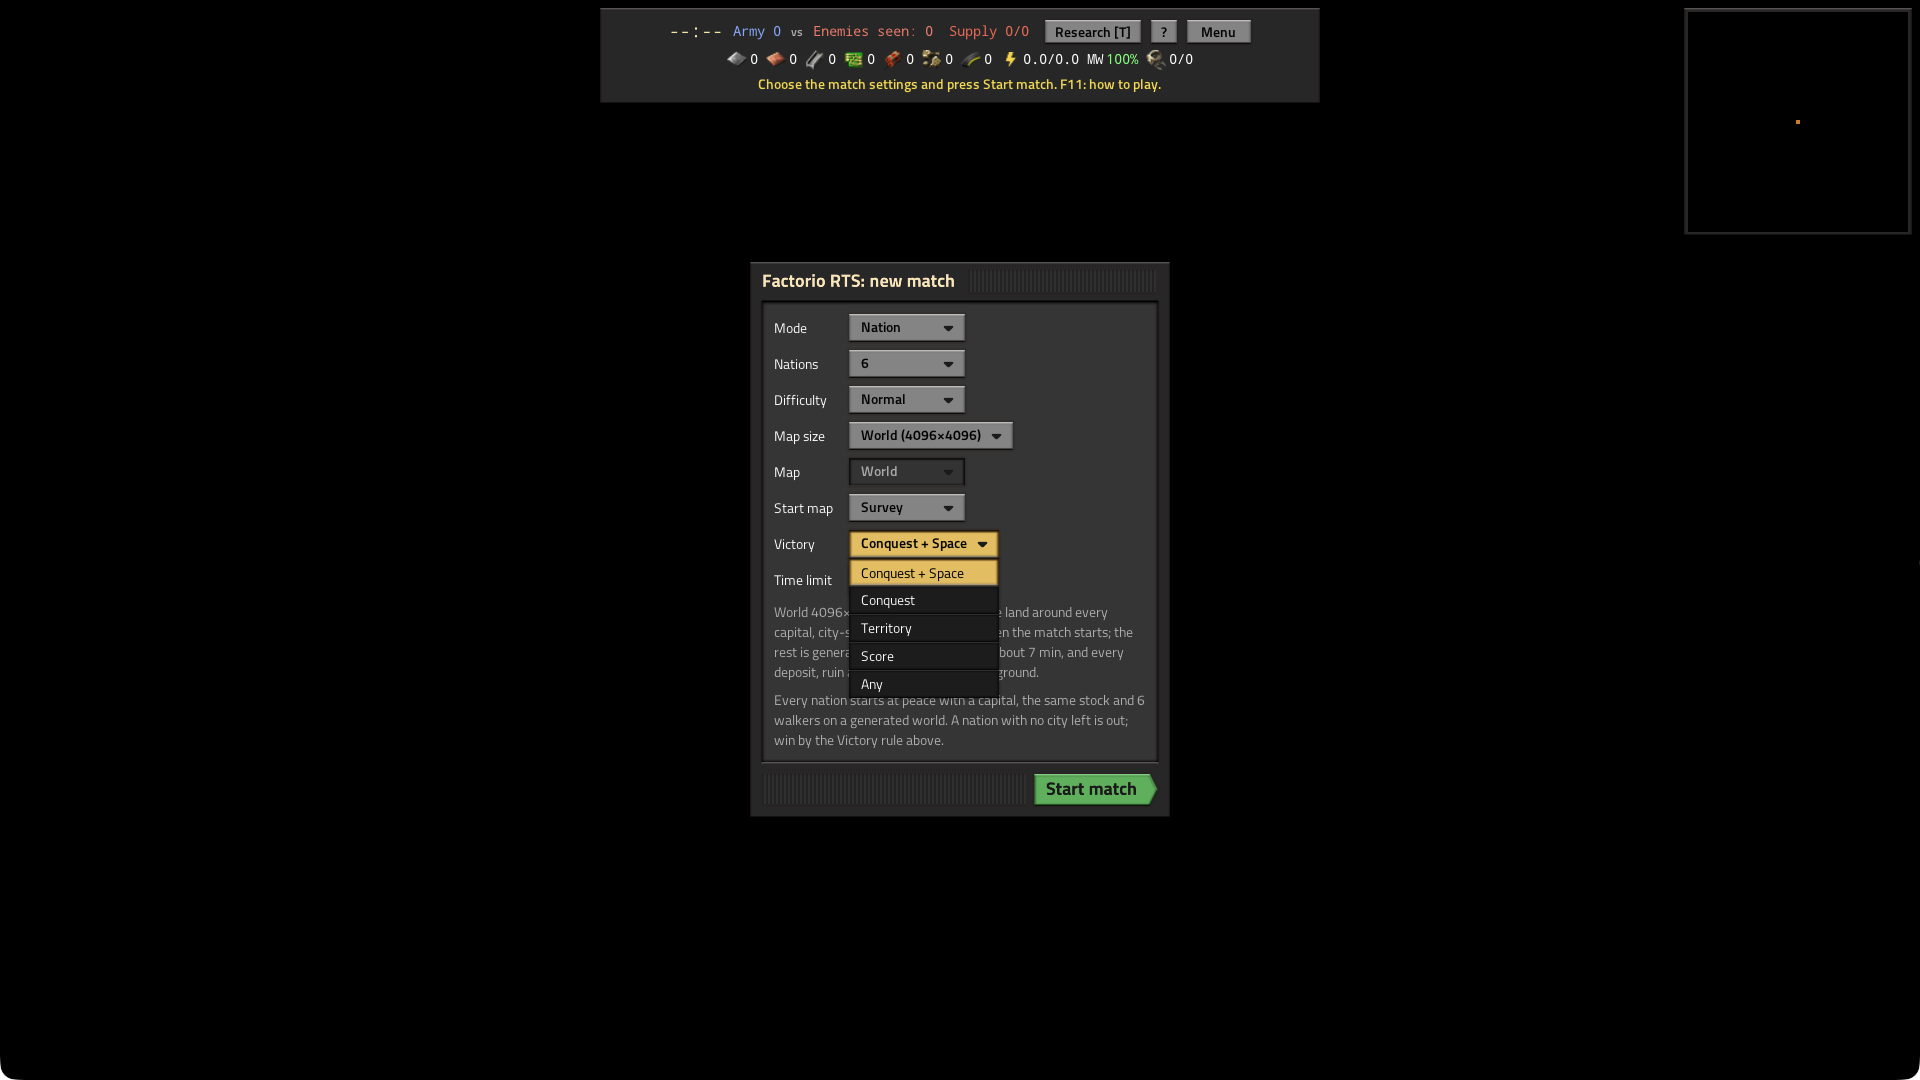
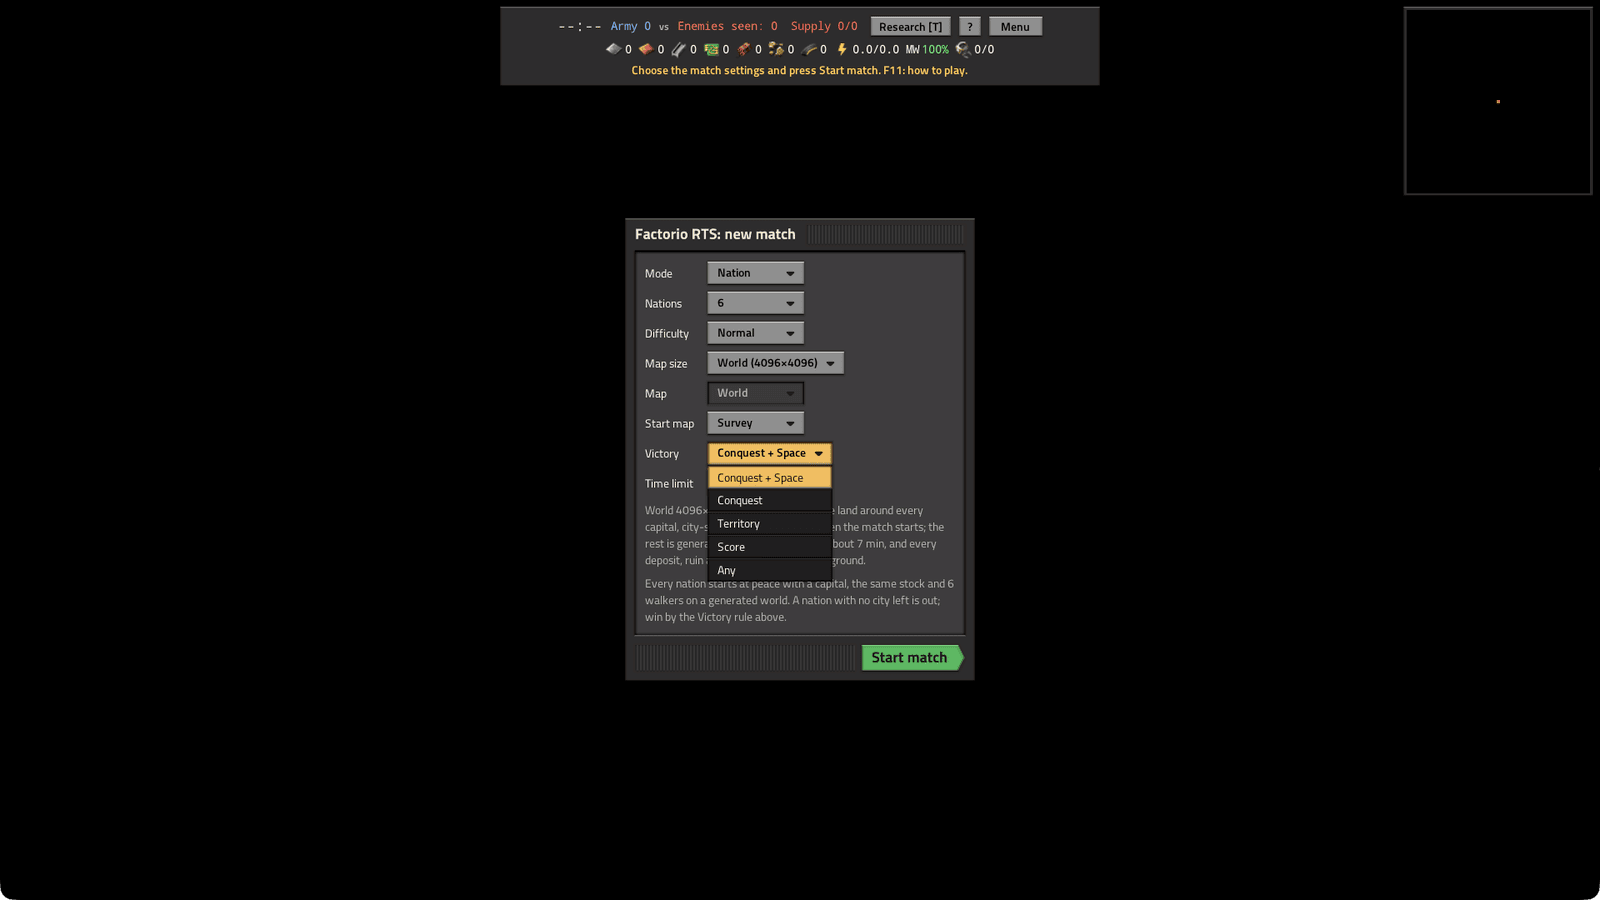
Showcase: docs/media holds web versions (1600x900 PNG, pngquant 70-90 + oxipng, 11.7 MB); full-size originals go to build/showcase/full/
tools/showcase.sh writes every shot twice by default: the 1920x1080 original to build/showcase/full/ (for the Mod
Portal gallery; not in git) and the web version to docs/media/ (WEB_WIDTH 1600, pngquant WEB_QUALITY 70-90, oxipng;
WEB_FORMAT=webp writes WebP instead). New commands: web (re-encode docs/media from the full-size files) and full (list
them). thumbnail-source.png is now the 640x640 square of shot 13 that thumbnail.png is scaled from (thumbnail.png
unchanged). INDEX.md describes both outputs.

Claude-Session: https://claude.ai/code/session_01K1bJYSf3tQsD9Ls3EpVb2L

Changed region(s): [[0.4062, 0.0311, 0.5938, 0.0933], [0.4375, 0.4978, 0.5, 0.56], [0.4062, 0.2489, 0.5, 0.28]]

diff --git a/docs/media/INDEX.md b/docs/media/INDEX.md
@@ -1,7 +1,10 @@
 # Release media
 
-Staged screenshots of Factorio RTS for the README and the Factorio Mod Portal: 1920×1080 PNG, the game area of a real
-English client (Factorio 2.1.23 with Space Age), with the mod's HUD. No human played: `tools/showcase.sh all`
+Staged screenshots of Factorio RTS for the README and the Factorio Mod Portal, the game area of a real English client
+(Factorio 2.1.23 with Space Age), with the mod's HUD. The files here are web versions: 1600×900 PNG, pngquant
+(quality 70-90) and oxipng. The full-size 1920×1080 originals for the Mod Portal gallery are written to
+`build/showcase/full/` (not in git; `tools/showcase.sh full` lists them, `tools/showcase.sh web` re-encodes this folder
+from them). No human played: `tools/showcase.sh all`
 regenerates every file. A scripted scene spawns, gives and positions everything through the module calls behind the QA
 console shortcuts (`/rts-give`, `/rts-spawn`, `/rts-research`, `/rts-age`, `/rts-front`, `/rts-market`), moves the
 camera, waits for the moment and grabs the client window (`tools/gui-drive.sh`). The Nation shots play on a 3-nation
@@ -26,8 +29,8 @@ bake`). Alternate takes land in `build/showcase/alt/`. `REVIEW.md` is the review
 | `13-commander-abilities.png` | Skirmish: the Commander (selected) casts Shield on the army around it and an Artillery strike lands in its target ring; the ability bar shows both cooldowns | `skirmish`, `tools/probes/showcase_skirmish.lua`, scene `13-commander-abilities` |
 | `14-skirmish-base.png` | Skirmish: the factory base built by the AI in 14 minutes, the natural hub (selected) with its stockpile policy (Export above 20) and an army block at the rally point | `skirmish`, `showcase_skirmish.lua`, scene `14-skirmish-base` |
 | `15-city-panel.png` | The capital's city panel (residents, happiness, needs, workforce, draft, make targets, Hire) and its stockpile policy panel | `nation`, `showcase_nation_scenes.lua`, scene `15-city-panel` |
-| `thumbnail-source.png` | The shot the mod portal thumbnail is cut from (a copy of `13-commander-abilities.png`) | `tools/showcase.sh thumb` |
-| `../../mods/factorio-rts/thumbnail.png` | 144×144 thumbnail: the Shield rings around the Commander and the Artillery strike bursting in its ring (a 640×640 square of the source) | `tools/showcase.sh thumb` (`THUMB_SHOT`, `THUMB_CROP`) |
+| `thumbnail-source.png` | The 640×640 square of the full-size `13-commander-abilities.png` that the mod portal thumbnail is scaled from (full resolution, web-encoded) | `tools/showcase.sh thumb` |
+| `../../mods/factorio-rts/thumbnail.png` | 144×144 thumbnail: the Shield rings around the Commander and the Artillery strike bursting in its ring (that square scaled to 144×144) | `tools/showcase.sh thumb` (`THUMB_SHOT`, `THUMB_CROP`) |
 
 Probes: `tools/probes/showcase_lib.lua` (steps, scenes, captures, staging helpers), `showcase_lobby.lua`,
 `showcase_nation.lua` (the bake and the scene launch) with `showcase_nation_scenes.lua`, `showcase_skirmish.lua`. One
